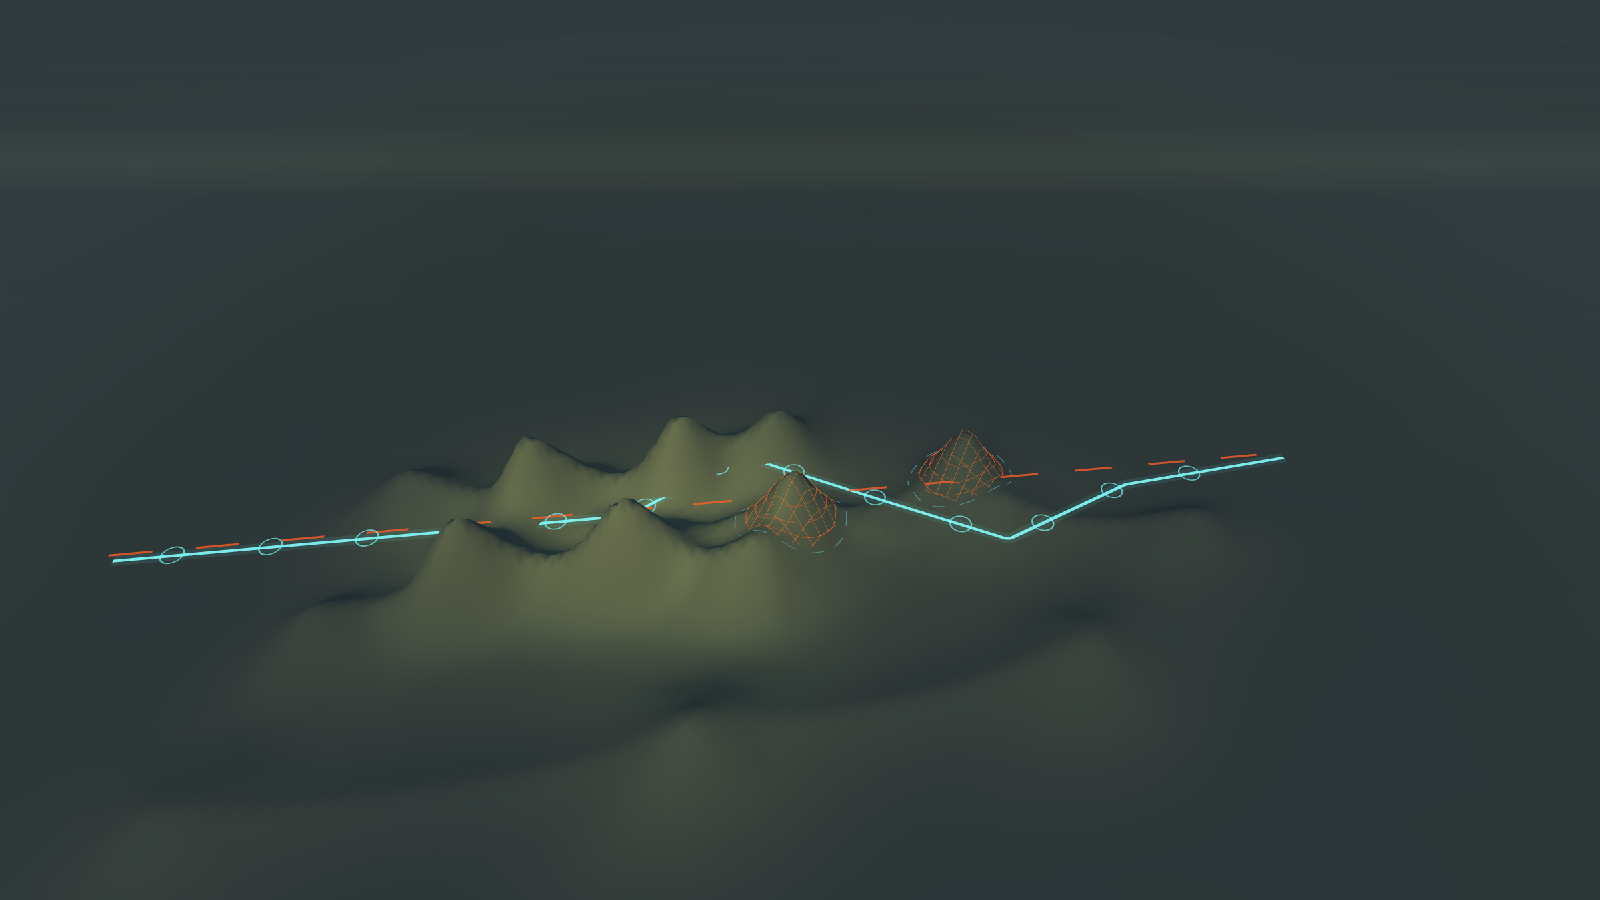
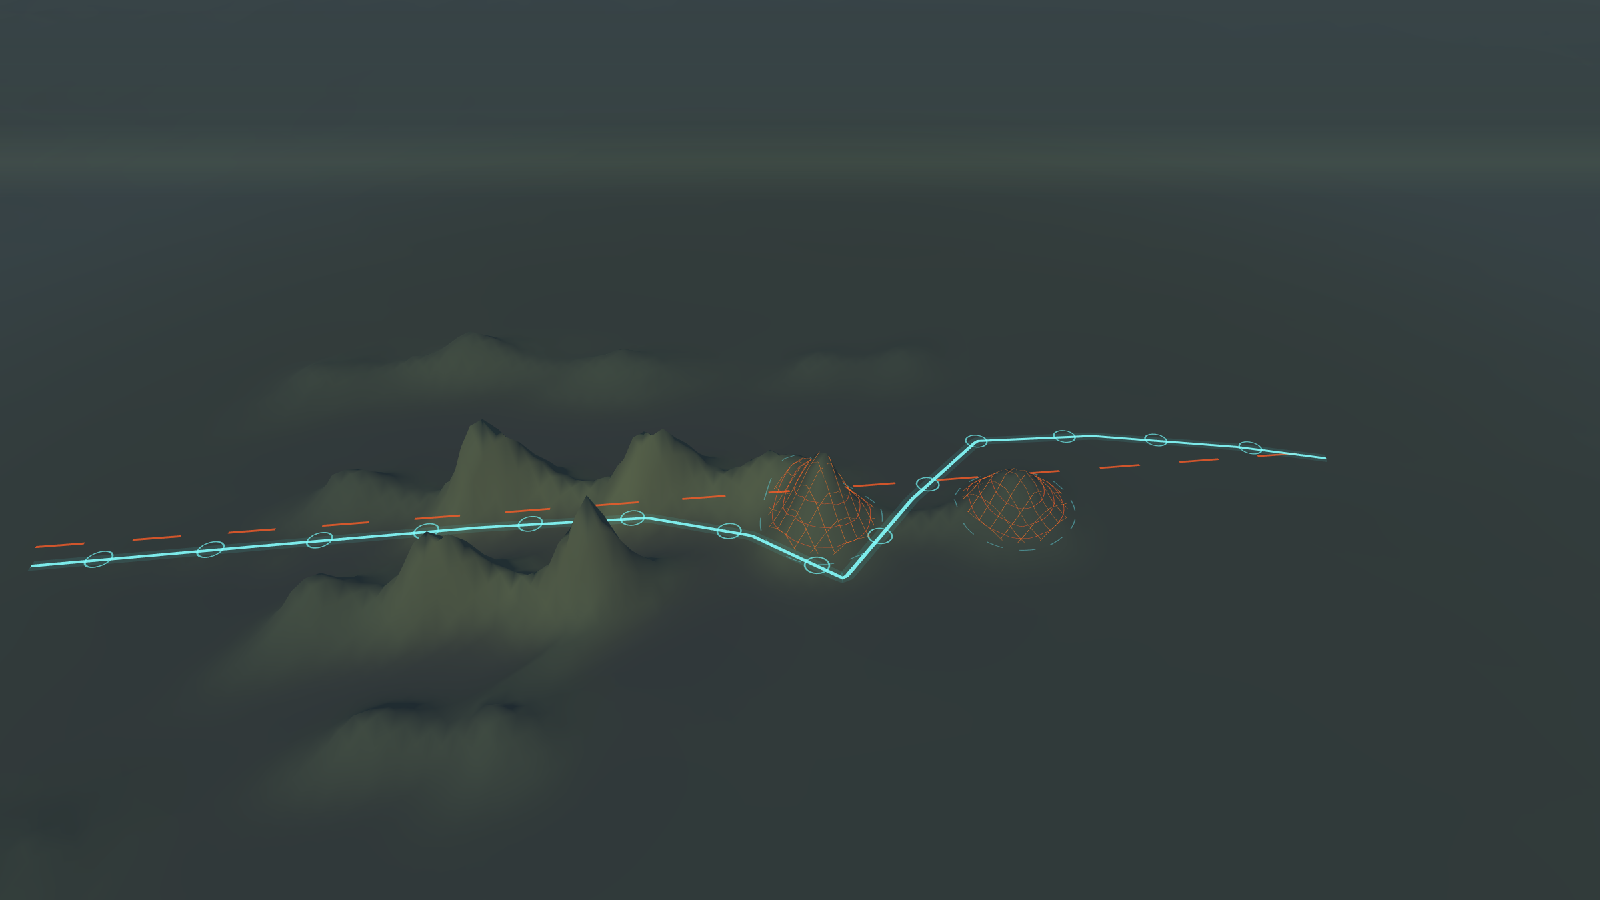
按负责人手绘示意图修订定稿布局
删除东北出口多余山脉、背景山改不对称分布;双峰S走位定为
先北绕峰1经472m鞍部南穿再南绕峰2;峰1南侧560m鞍部衔接峡谷南脉;
集结段增加低丘;3D确认图恢复细节噪声。留档负责人手绘示意图
与美工概念图作为设计依据。

diff --git a/scripts/terrain_style_preview/layout_scene.qml b/scripts/terrain_style_preview/layout_scene.qml
@@ -28,10 +28,10 @@ Item {
             fog: Fog {
                 enabled: true
                 color: "#081723"
-                density: 0.18
+                density: 0.09
                 depthEnabled: true
                 depthNear: 32000
-                depthFar: 62000
+                depthFar: 68000
                 depthCurve: 1.05
                 heightEnabled: false
             }
@@ -40,26 +40,26 @@ Item {
         Node {
             id: cameraPivot
             position: Qt.vector3d(0, 980, 0)
-            eulerRotation: Qt.vector3d(-43, -42, 0)
+            eulerRotation: Qt.vector3d(-35, -42, 0)
 
             PerspectiveCamera {
-                position: Qt.vector3d(0, 0, 23200)
+                position: Qt.vector3d(0, 0, 22400)
                 clipNear: 10
                 clipFar: 140000
-                fieldOfView: 49
+                fieldOfView: 47
             }
         }
 
         DirectionalLight {
             eulerRotation: Qt.vector3d(-35, -52, 0)
-            brightness: 2.45
+            brightness: 3.20
             color: "#fff0d6"
             castsShadow: false
         }
 
         DirectionalLight {
             eulerRotation: Qt.vector3d(-68, 132, 0)
-            brightness: 0.56
+            brightness: 0.72
             color: "#4faec6"
             castsShadow: false
         }

diff --git a/scripts/terrain_style_preview/generate_layout_candidates.py b/scripts/terrain_style_preview/generate_layout_candidates.py
@@ -81,6 +81,7 @@ class Saddle:
     v: float
     height: float
     label: str
+    kind: str = "saddle"
 
 
 @dataclass(frozen=True)
@@ -311,6 +312,24 @@ def load_layout_spec_from_json(path: Path) -> LayoutSpec:
             ridges.append(RidgeSegment(first.u, first.v, second.u, second.v, height, ridge_width, role, label))
             if role == "saddle":
                 saddles.append(Saddle((first.u + second.u) * 0.5, (first.v + second.v) * 0.5, height, label))
+    for link in data.get("saddle_links", []):
+        start_u, start_v = float(link["from_uv"][0]), float(link["from_uv"][1])
+        end_u, end_v = float(link["to_uv"][0]), float(link["to_uv"][1])
+        height = float(link["height_m"])
+        label = str(link.get("label", "鞍部连接"))
+        ridges.append(
+            RidgeSegment(
+                start_u=start_u,
+                start_v=start_v,
+                end_u=end_u,
+                end_v=end_v,
+                height=height,
+                width_km=float(link.get("ridge_width_km", 0.52)),
+                role=str(link.get("role", "saddle")),
+                label=label,
+            )
+        )
+        saddles.append(Saddle((start_u + end_u) * 0.5, (start_v + end_v) * 0.5, height, label, str(link.get("kind", "saddle"))))
     flight = data["flight"]
     return LayoutSpec(
         key=str(data["key"]),
@@ -359,10 +378,19 @@ def layout_height(spec: LayoutSpec, x_grid: np.ndarray, y_grid: np.ndarray, seed
         local_x = (dx * cos_a + dy * sin_a) / peak.radius_u
         local_y = (-dx * sin_a + dy * cos_a) / peak.radius_v
         body = np.exp(-1.20 * (np.abs(local_x) ** 1.65 + np.abs(local_y) ** 1.80))
-        ridge = warped_ridged_fbm(uu + index * 0.037, vv - index * 0.023, 16 + index % 5, 4, seed + 41 + index, 0.030)
-        drainage = warped_ridged_fbm(uu - index * 0.011, vv + index * 0.019, 22 + index % 7, 3, seed + 91 + index, 0.025)
-        rugged = np.clip(0.72 + 0.42 * ridge - 0.24 * (1.0 - drainage) ** 2.0, 0.42, 1.26)
+        ridge = warped_ridged_fbm(uu + index * 0.037, vv - index * 0.023, 22 + index % 5, 5, seed + 41 + index, 0.034)
+        drainage = warped_ridged_fbm(uu - index * 0.011, vv + index * 0.019, 34 + index % 7, 4, seed + 91 + index, 0.030)
+        fine_ridge = warped_ridged_fbm(uu + index * 0.019, vv + index * 0.031, 66 + index % 9, 3, seed + 131 + index, 0.022)
+        rugged = np.clip(0.58 + 0.50 * ridge + 0.30 * fine_ridge - 0.36 * (1.0 - drainage) ** 2.0, 0.30, 1.42)
         height += peak.height * body * rugged
+    mountain_mask = smoothstep((height - 220.0) / 780.0)
+    ridge_detail = warped_ridged_fbm(uu * 1.017 + 0.041, vv * 0.983 - 0.027, 58, 5, seed + 503, 0.034)
+    gully_detail = warped_ridged_fbm(uu * 0.971 - 0.063, vv * 1.029 + 0.019, 42, 4, seed + 607, 0.030)
+    rock_detail = warped_ridged_fbm(uu * 1.039 + 0.012, vv * 1.011 + 0.071, 96, 3, seed + 719, 0.020)
+    crest = np.clip((ridge_detail - 0.54) / 0.46, 0.0, 1.0)
+    gully = np.clip((0.62 - gully_detail) / 0.62, 0.0, 1.0)
+    high_frequency = 250.0 * (ridge_detail - 0.46) + 160.0 * crest**1.7 - 260.0 * gully**2.0 + 92.0 * (rock_detail - 0.50)
+    height += mountain_mask * high_frequency
     # 航线走廊在段1和段4更平缓，段2保留低丘层次。
     corridor = np.exp(-0.5 * (v_grid / 0.75) ** 2)
     gather = smoothstep((6.0 - u_grid) / 2.2)
@@ -403,10 +431,14 @@ def style_a_colors(height: np.ndarray, x_grid: np.ndarray, y_grid: np.ndarray) -
     light_dir = np.array([-0.58, 0.66, 0.48], dtype=np.float32)
     light_dir /= np.linalg.norm(light_dir)
     lambert = np.clip(np.sum(normals * light_dir, axis=-1), 0.0, 1.0)
-    veg_relief = 0.86 + 0.24 * (lambert[..., None] ** 0.82)
-    rock_relief = 0.46 + 0.96 * (lambert[..., None] ** 0.78)
+    broad_height = box_blur(height, 10, passes=2)
+    concavity = np.clip((broad_height - height - 28.0) / 210.0, 0.0, 1.0)
+    ridge_lift = np.clip((height - broad_height - 45.0) / 240.0, 0.0, 1.0)
+    ao = (1.0 - 0.40 * concavity + 0.12 * ridge_lift)[..., None]
+    veg_relief = 0.78 + 0.34 * (lambert[..., None] ** 0.80)
+    rock_relief = 0.36 + 1.14 * (lambert[..., None] ** 0.74)
     relief = veg_relief * (1.0 - rock_weight[..., None]) + rock_relief * rock_weight[..., None]
-    color = np.maximum(mixed * relief, np.array([0.036, 0.052, 0.070], dtype=np.float32))
+    color = np.maximum(mixed * relief * ao, np.array([0.032, 0.046, 0.064], dtype=np.float32))
     linear = srgb_to_linear(np.clip(color, 0.0, 0.85))
     alpha = np.ones((*height.shape, 1), dtype=np.float32)
     return np.concatenate([linear.astype(np.float32), alpha], axis=-1), normals
@@ -420,7 +452,7 @@ class LayoutScene:
 
         self.spec = spec
         self.grid_size = grid_size
-        self.extent_km = 58.0
+        self.extent_km = 90.0
         axis = np.linspace(-self.extent_km, self.extent_km, grid_size, dtype=np.float32)
         self.x_grid, self.y_grid = np.meshgrid(axis, axis)
         self.height = layout_height(spec, self.x_grid, self.y_grid, seed)